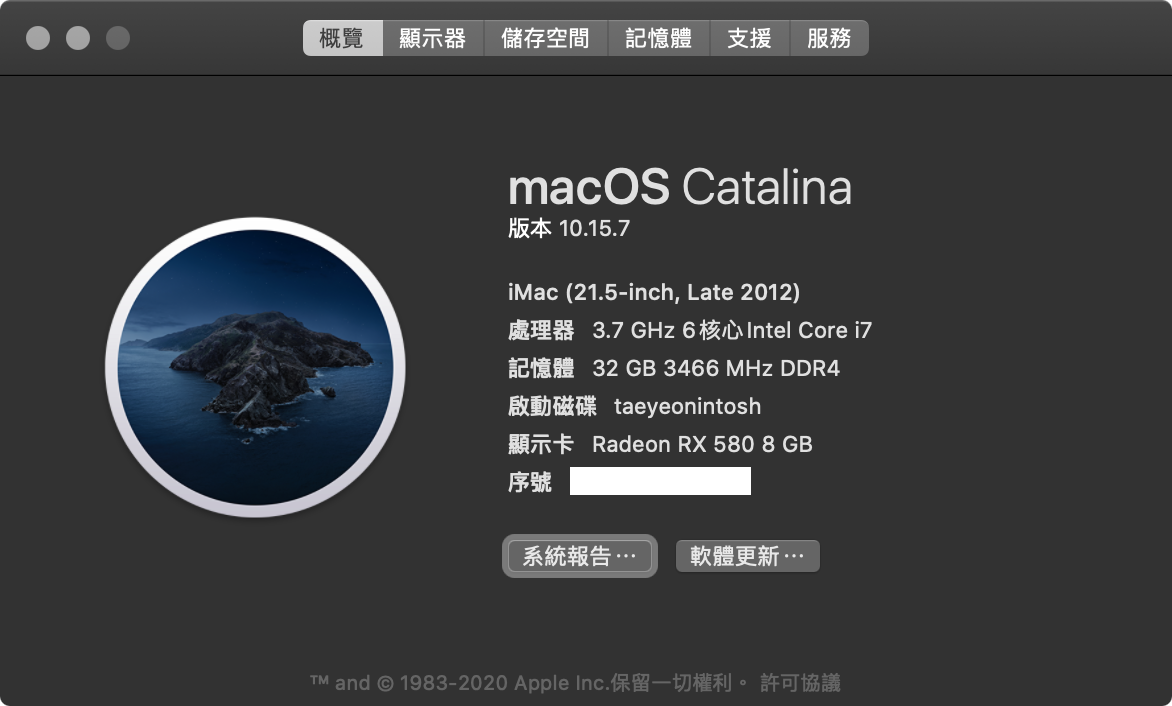
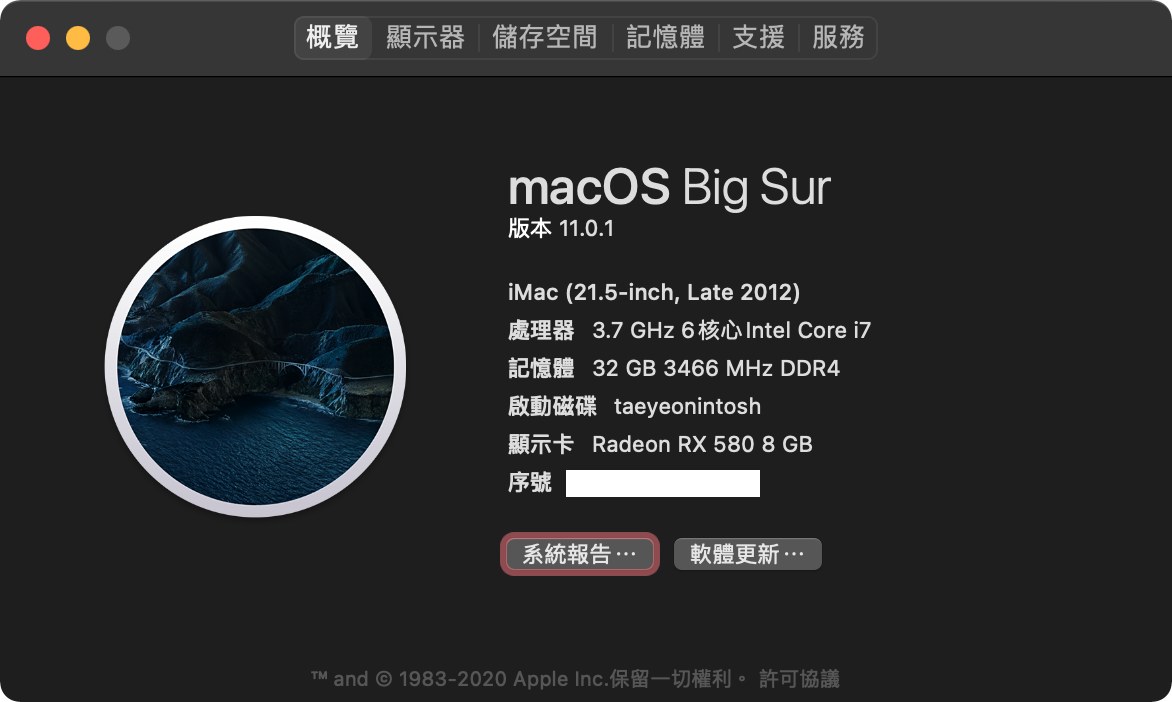
OpenCore 0.6.3 macOS 11.0.1

diff --git a/README.md b/README.md
@@ -4,9 +4,18 @@
 </p>
 
 ## Version
-* macOS 10.15.7 Catalina
+* macOS 11.0.1 Catalina
 * OpenCore 0.6.3
+### other version
+<a href="https://github.com/taeyeonssupdate/OpenCore-Z370-Gaming-7-i8-8700k-rx580-8G/tree/"><img src="https://is4-ssl.mzstatic.com/image/thumb/Purple124/v4/09/59/3d/09593d0e-188a-77eb-4c38-ca40bedd5cff/ProductPageIcon.png/460x0w.webp" height="32px"/></a>[macOS 11.0.1](https://github.com/taeyeonssupdate/OpenCore-Z370-Gaming-7-i8-8700k-rx580-8G/tree/)
+* [OpenCore 0.6.3](https://github.com/taeyeonssupdate/OpenCore-Z370-Gaming-7-i8-8700k-rx580-8G/commit/)
 
+<a href="https://github.com/taeyeonssupdate/OpenCore-Z370-Gaming-7-i8-8700k-rx580-8G/tree/2af5c9"><img src="https://km.support.apple.com/resources/sites/APPLE/content/live/IMAGES/0/IM935/en_US/macos-catalina-roundel-240.png" height="32px"/></a>[macOS 10.15.7](https://github.com/taeyeonssupdate/OpenCore-Z370-Gaming-7-i8-8700k-rx580-8G/tree/2af5c9)
+* [OpenCore 0.6.3](https://github.com/taeyeonssupdate/OpenCore-Z370-Gaming-7-i8-8700k-rx580-8G/commit/2af5c9d)
+
+<a href="https://github.com/taeyeonssupdate/OpenCore-Z370-Gaming-7-i8-8700k-rx580-8G/commit/ba1036b"><img src="https://km.support.apple.com/resources/sites/APPLE/content/live/IMAGES/0/IM935/en_US/macos-catalina-roundel-240.png" height="32px"/></a>[macOS 10.15.6](https://github.com/taeyeonssupdate/OpenCore-Z370-Gaming-7-i8-8700k-rx580-8G/commit/ba1036b)
+* [OpenCore 0.6.2](https://github.com/taeyeonssupdate/OpenCore-Z370-Gaming-7-i8-8700k-rx580-8G/commit/ba1036b)
+* [OpenCore 0.6.1](https://github.com/taeyeonssupdate/OpenCore-Z370-Gaming-7-i8-8700k-rx580-8G/commit/66c2799)
 ## Hardware
 
 * Intel Core i7-8700K Coffee Lake
